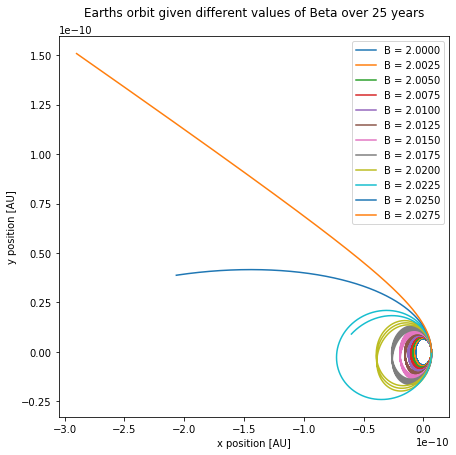
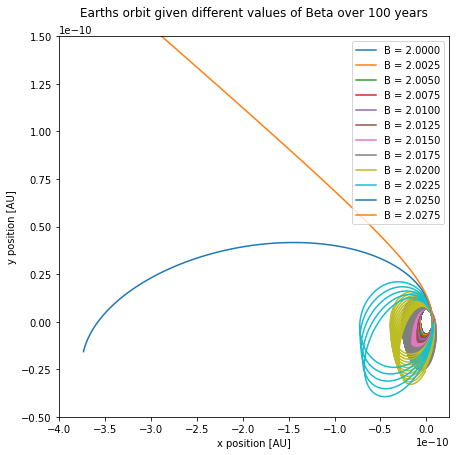
Actual final code commit
Nicer 3e) plot to better illustrate that we're still elliptical unitl we're not :)

diff --git a/Project_3/code/main.py b/Project_3/code/main.py
@@ -429,7 +429,7 @@ Call the function from the console
 def proj_3e():
     AU = 149.6e9
     betas = np.linspace(2,2.0275,12)
-    years = 25
+    years = 100
     bOrbits = np.zeros((len(betas),years*365,2))
     sun = CelestialBody('Sun', np.array((0,0)), np.array((0,0)), 2e30)
     j = 0
@@ -444,9 +444,11 @@ def proj_3e():
         b = betas[i]
         plt.plot(bOrbits[i,:,0]/AU, bOrbits[i,:,1]/AU, label='B = %.4f' %(b))
     plt.legend(loc='upper right')
-    plt.title('Earths orbit given different values of Beta over 25 years', pad=20)
+    plt.title('Earths orbit given different values of Beta over 100 years', pad=20)
     plt.xlabel('x position [AU]')
     plt.ylabel('y position [AU]')
+    plt.xlim(-4*1e-10,0.25*1e-10)
+    plt.ylim(-0.5*1e-10, 1.5*1e-10)
     plt.show()
     
     earth = CelestialBody('Earth', np.array((1*AU,0)), np.array((0,23.72e3)), 6e24) #re-initializing
